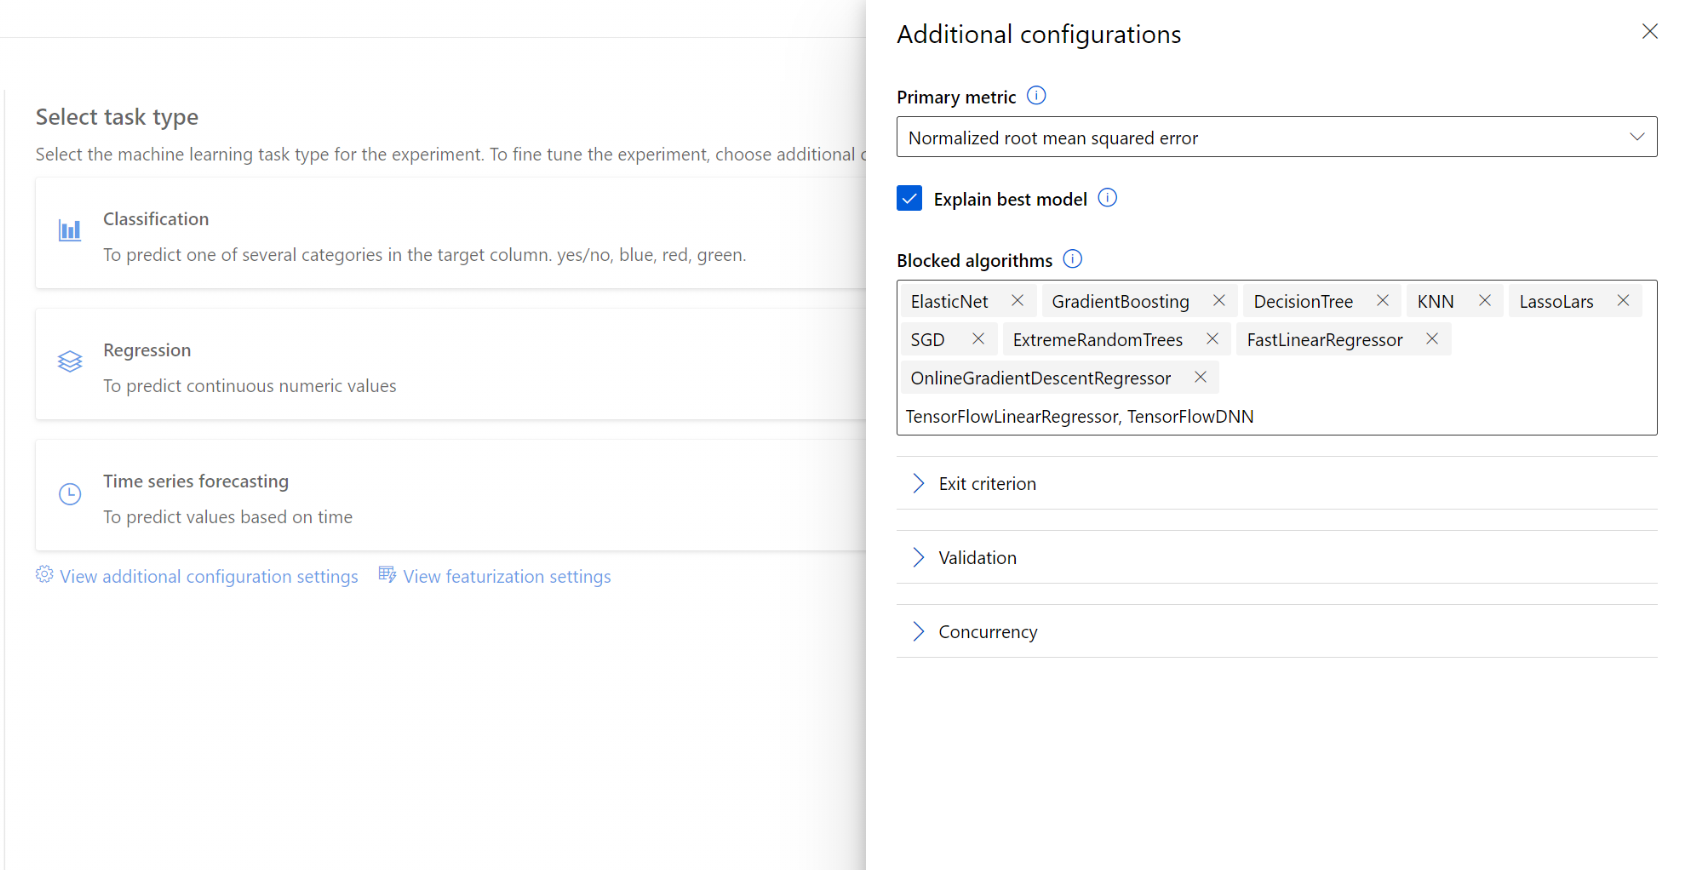
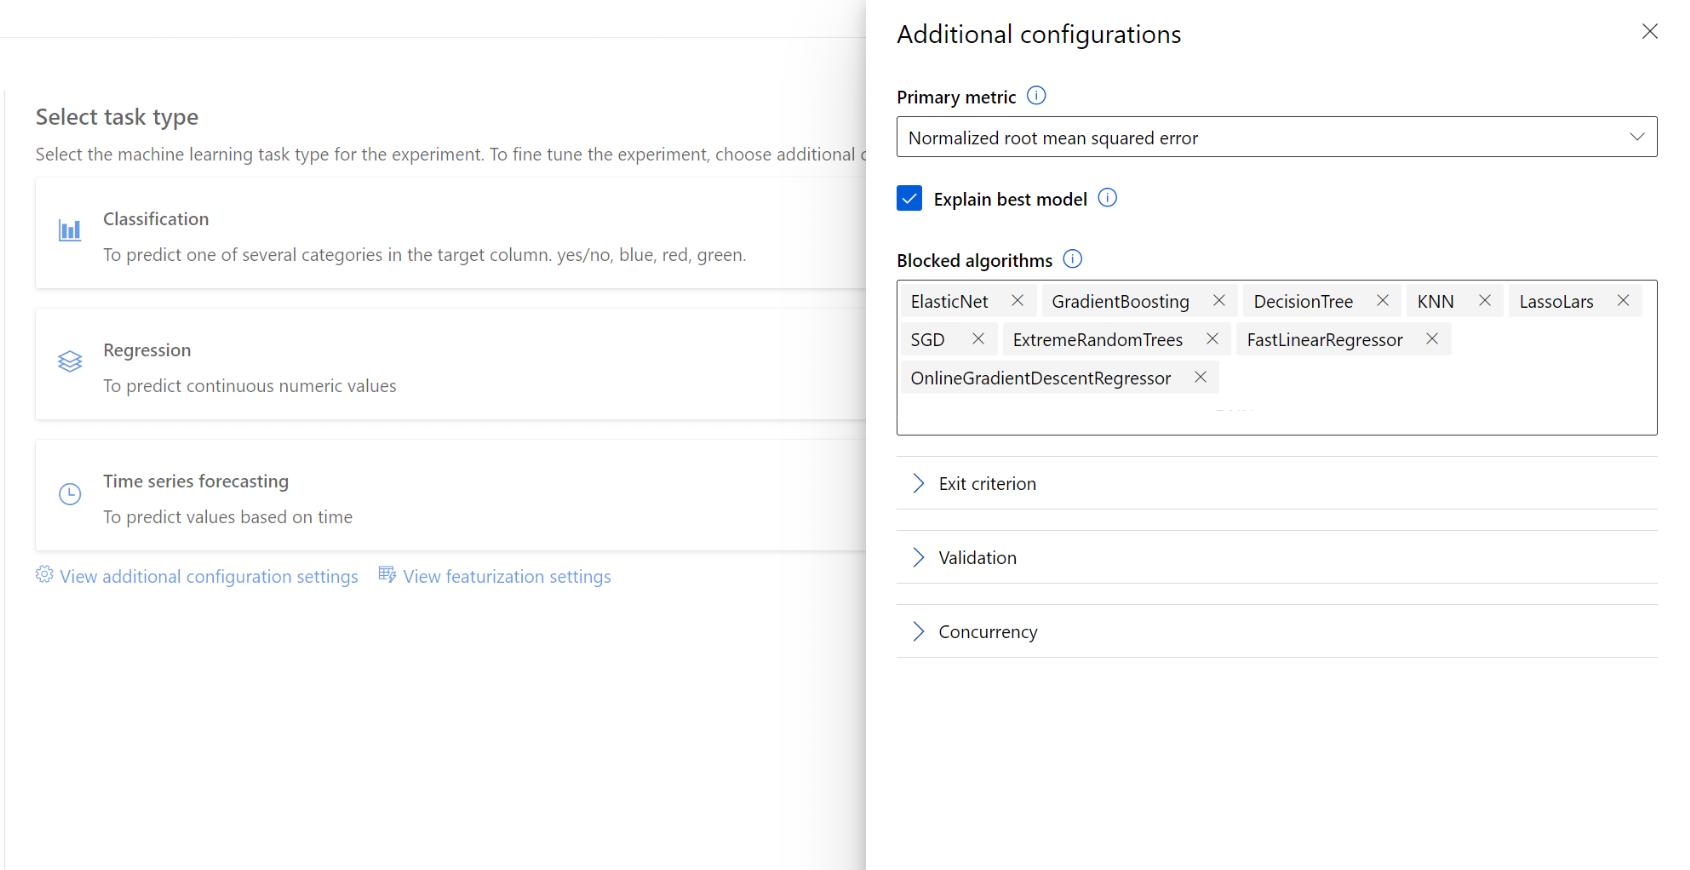
Removed Tensorflow algo

diff --git a/PredictIncomingCashflow.md b/PredictIncomingCashflow.md
@@ -131,7 +131,7 @@ Create the dataset
     <img src="images/aml/16-aml-studio.PNG" height= 400>
 
     2. Select all the following algorithms as blocked (useless for the regression task type) : `ElasticNet, GradientBoosting, DecisionTree, KNN, LassoLars, SGD, RandomForest, ExtremeRandomTrees, LightGBM, TensorFlowLinearRegressor, TensorFlowDNN`
-    >>Note : You need to add `TensorFlowLinearRegressor`, `TensorFlowDNN` manually
+    <!-- >>>Note : You need to add `TensorFlowLinearRegressor`, `TensorFlowDNN` manually -->
 
     3. Validate and click on `Finish`
     <img src="images/aml/17-aml-studio.PNG" height= 400>
